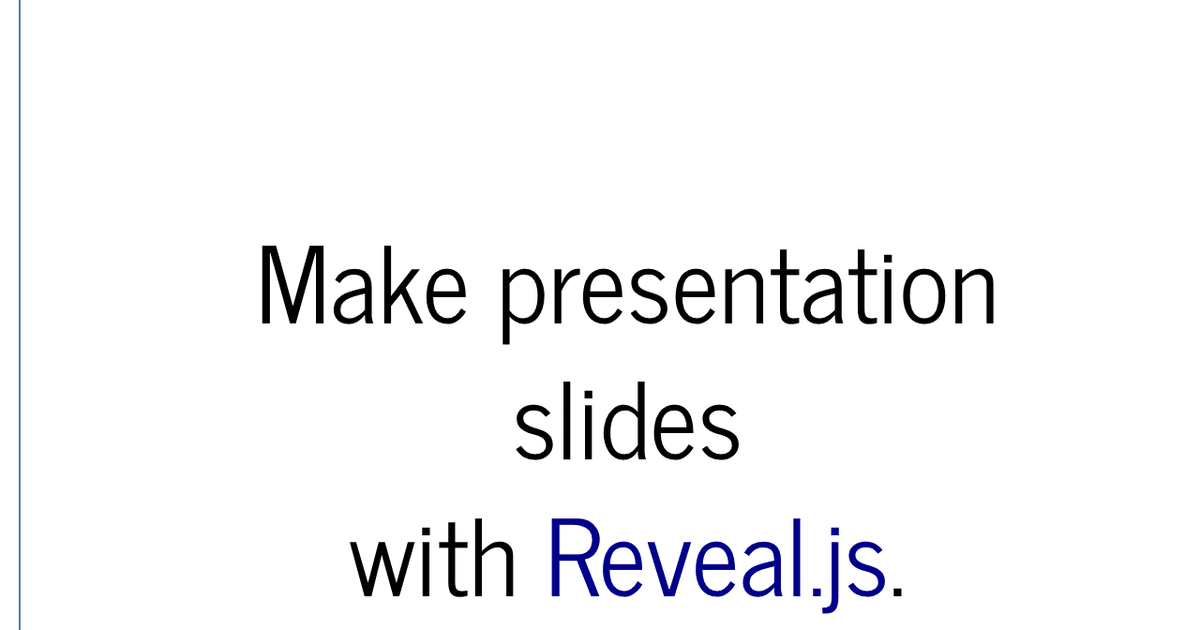
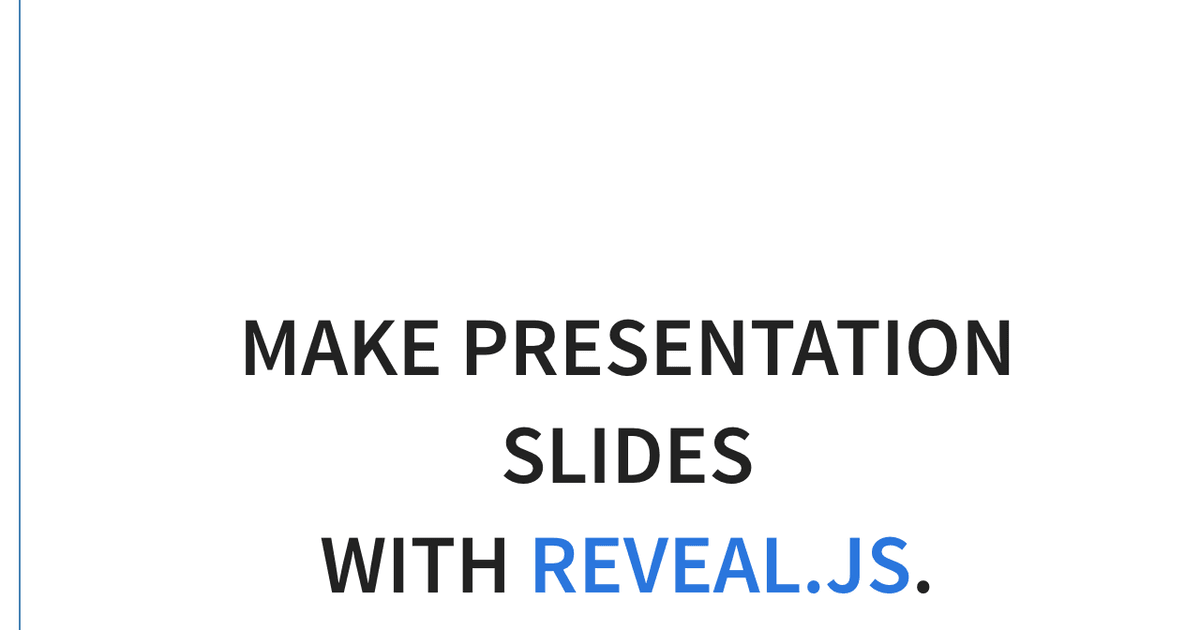
revealjs dark mode

Changed region(s): [[0.185, 0.3921, 0.8633, 0.7841], [0.2467, 0.8143, 0.7708, 0.9952]]

diff --git a/src/party/revealjs.md b/src/party/revealjs.md
@@ -44,8 +44,10 @@ const reveal = new Reveal({
 reveal.initialize();
 ```
 
-<link rel=stylesheet href='npm:reveal.js/dist/reveal.css'>
-<link rel=stylesheet href='npm:reveal.js/dist/theme/simple.css'>
+<link rel="stylesheet" href="npm:reveal.js/dist/reveal.css">
+<link rel="stylesheet" media="(prefers-color-scheme: dark)" href="npm:reveal.js/dist/theme/black.css">
+<link rel="stylesheet" media="(prefers-color-scheme: light)" href="npm:reveal.js/dist/theme/white.css">
+
 <style>
 .reveal {
   width: 90%;
